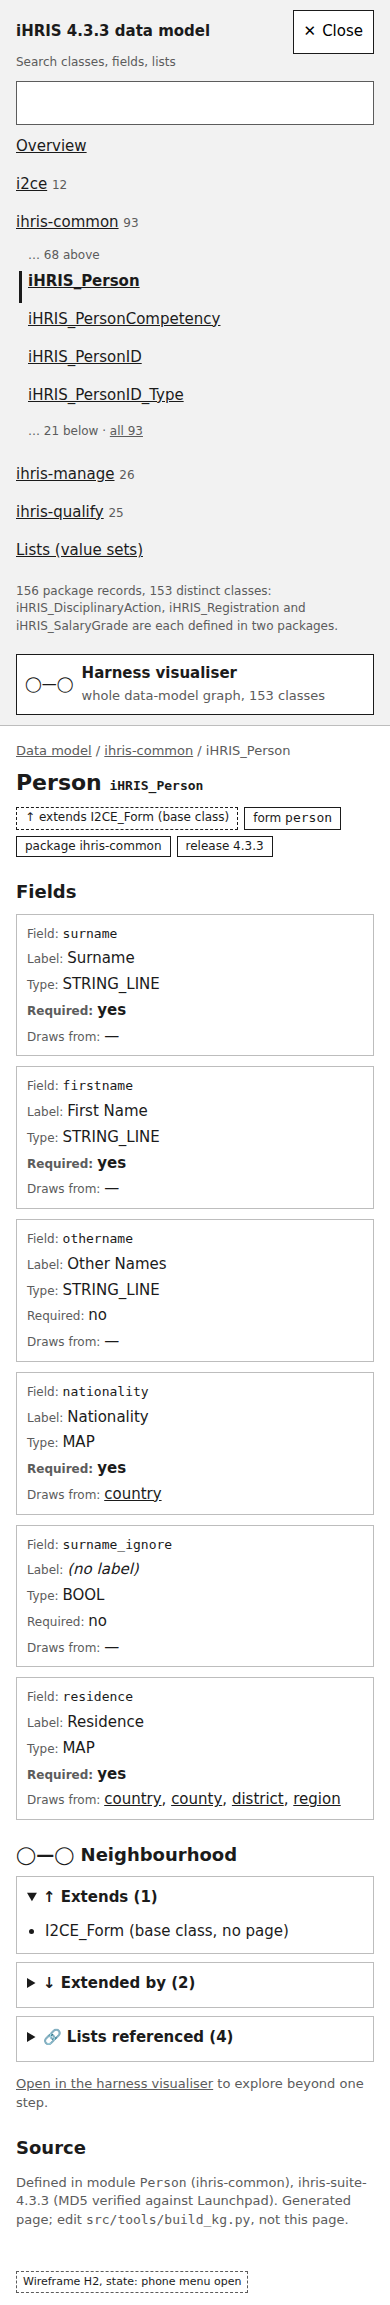
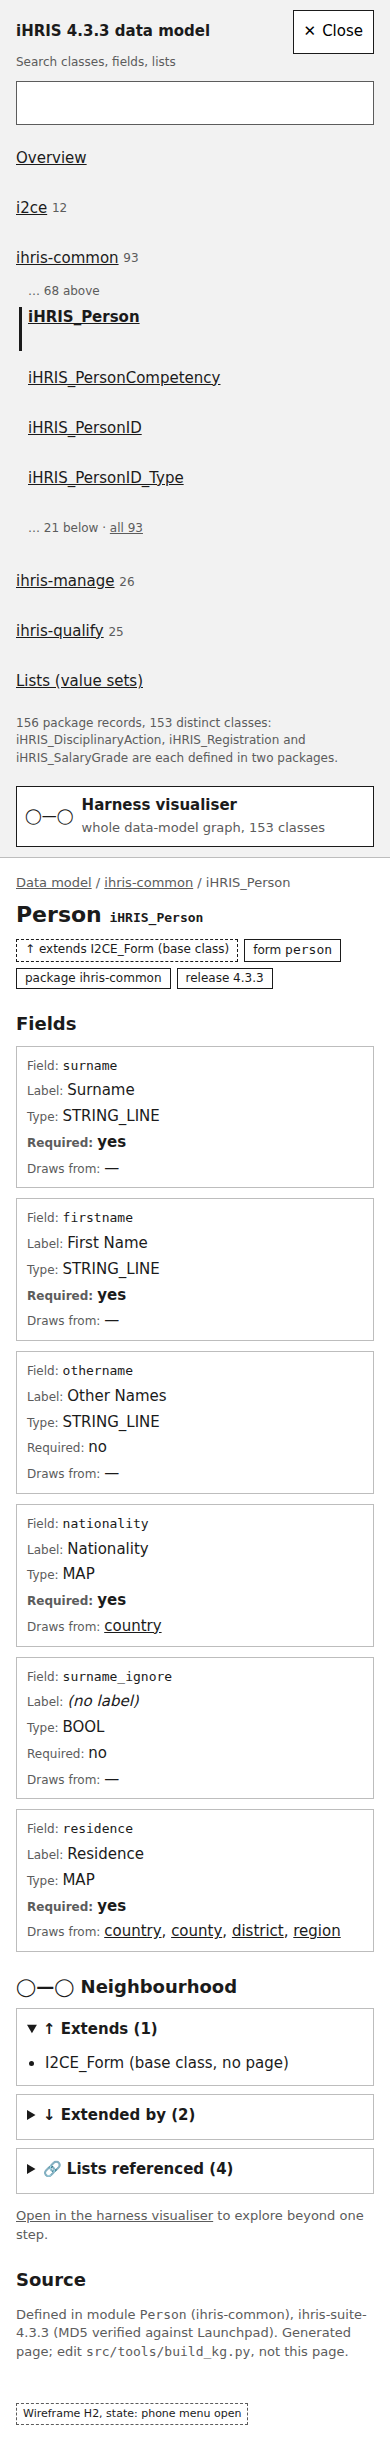
Data-model wireframes round 3: record agent-3's review; patch its two warnings
Menu touch targets are now 44px (measured), and the menu button's name is
its visible text. aria-controls also covers the visualiser tile. Checks
were re-run and pass.

Claude-Session: https://claude.ai/code/session_01TA4id51RCSxZ4NxijDwrWQ

Changed region(s): [[0.0308, 0.0, 0.9231, 0.9996], [0.7692, 0.0, 0.9538, 0.0312]]

diff --git a/docs/design/wireframes/data-model-site/round-3/h2-menu.html b/docs/design/wireframes/data-model-site/round-3/h2-menu.html
@@ -48,7 +48,7 @@
     .side { border-right:0; border-bottom:1px solid var(--line); padding:10px 16px; }
     .side .nav { display:block; margin-top:8px; }   /* state: menu open */
     .side .tile { display:flex; min-height:44px; }
-    .nav a { display:inline-block; min-height:32px; }
+    .nav a { display:inline-flex; align-items:center; min-height:44px; }
     .topbar { display:flex; align-items:center; justify-content:space-between; }
     .menu-btn { display:inline-flex; align-items:center; gap:6px; border:1px solid var(--ink); padding:6px 10px; background:var(--bg); min-height:44px; font:inherit; }
     .site { margin:0; }
@@ -76,7 +76,7 @@
   <aside class="side" aria-label="Site navigation">
     <div class="topbar">
       <div class="site">iHRIS 4.3.3 data model</div>
-      <button class="menu-btn" type="button" aria-label="Open navigation" aria-expanded="true" aria-controls="nav"><span aria-hidden="true">&#10005;</span> Close</button>
+      <button class="menu-btn" type="button" aria-expanded="true" aria-controls="nav vis-tile"><span aria-hidden="true">&#10005;</span> Close</button>
     </div>
     <form class="search" role="search" action="#">
       <label for="q">Search classes, fields, lists</label>
@@ -102,7 +102,7 @@
         <li class="note">156 package records, 153 distinct classes: iHRIS_DisciplinaryAction, iHRIS_Registration and iHRIS_SalaryGrade are each defined in two packages.</li>
       </ul>
     </nav>
-    <a class="tile" href="#"><span aria-hidden="true">&#9711;&#8212;&#9711;</span> <span><b>Harness visualiser</b><br><span class="src">whole data-model graph, 153 classes</span></span></a>
+    <a class="tile" id="vis-tile" href="#"><span aria-hidden="true">&#9711;&#8212;&#9711;</span> <span><b>Harness visualiser</b><br><span class="src">whole data-model graph, 153 classes</span></span></a>
   </aside>
 
   <main id="main" tabindex="-1">

diff --git a/docs/design/wireframes/data-model-site/round-3/h2.html b/docs/design/wireframes/data-model-site/round-3/h2.html
@@ -51,6 +51,7 @@
     .menu-btn { display:inline-flex; align-items:center; gap:6px; border:1px solid var(--ink); padding:6px 10px; background:var(--bg); min-height:44px; font:inherit; }
     .site { margin:0; }
     .search input { margin:8px 0 0; min-height:44px; }
+    .nav a { display:inline-flex; align-items:center; min-height:44px; }
     main { padding:16px; }
     h1 { font-size:22px; }
     /* fields: labelled cards (A) */
@@ -74,7 +75,7 @@
   <aside class="side" aria-label="Site navigation">
     <div class="topbar">
       <div class="site">iHRIS 4.3.3 data model</div>
-      <button class="menu-btn" type="button" aria-label="Open navigation" aria-expanded="false" aria-controls="nav"><span aria-hidden="true">&#9776;</span> Menu</button>
+      <button class="menu-btn" type="button" aria-expanded="false" aria-controls="nav vis-tile"><span aria-hidden="true">&#9776;</span> Menu</button>
     </div>
     <form class="search" role="search" action="#">
       <label for="q">Search classes, fields, lists</label>
@@ -100,7 +101,7 @@
         <li class="note">156 package records, 153 distinct classes: iHRIS_DisciplinaryAction, iHRIS_Registration and iHRIS_SalaryGrade are each defined in two packages.</li>
       </ul>
     </nav>
-    <a class="tile" href="#"><span aria-hidden="true">&#9711;&#8212;&#9711;</span> <span><b>Harness visualiser</b><br><span class="src">whole data-model graph, 153 classes</span></span></a>
+    <a class="tile" id="vis-tile" href="#"><span aria-hidden="true">&#9711;&#8212;&#9711;</span> <span><b>Harness visualiser</b><br><span class="src">whole data-model graph, 153 classes</span></span></a>
   </aside>
 
   <main id="main" tabindex="-1">

diff --git a/docs/design/wireframes/data-model-site/README.md b/docs/design/wireframes/data-model-site/README.md
@@ -28,7 +28,8 @@ Process: [`wireframe-design-review`](../../../../processes/wireframe-design-revi
 | intent | [`round-3/intent.md`](round-3/intent.md): eight fixes answering agent-2 |
 | candidate | [`round-3/h2.html`](round-3/h2.html), plus its phone-menu-open state [`round-3/h2-menu.html`](round-3/h2-menu.html) |
 | mechanical checks | `round-3/checks/report.json`: all `pass` at web and mobile, for both files |
-| blind review | `round-3/reviews/`: agent-3 (non-author, blind) |
+| blind review | [`round-3/reviews/agent-3.json`](round-3/reviews/agent-3.json) (non-author, blind). Intent-fit, web and alternatives pass; fixes 2–8 pass. Two warnings: menu touch targets under 44px, and the menu button's aria-label hid its visible text. Every fact matches the data. |
+| post-review patch | [`round-3/post-review-patch.json`](round-3/post-review-patch.json): both warnings patched and verified mechanically (the smallest touch target is 44px). The checks were re-run. |
 | acceptance | open: the owner decides |
 
 `authors.json` records who made each candidate. Reviewers should not open it.

diff --git a/beans/defs/ihris-07z5--data-model-site-wireframes-round-2-hybrid-h-review.md b/beans/defs/ihris-07z5--data-model-site-wireframes-round-2-hybrid-h-review.md
@@ -1,6 +1,6 @@
 ---
 # ihris-07z5
-title: 'Data-model site wireframes: round 2 (hybrid H) review and acceptance'
+title: 'Data-model site wireframes: rounds 2–3 (hybrid H, H2) review and acceptance'
 status: in-progress
 type: task
 tags:
@@ -12,3 +12,11 @@ parent: ihris-um1h
 ---
 
 Candidate `docs/design/wireframes/data-model-site/round-2/h.html`: A's structure plus B's neighbourhood graph, with the five fixes round 1 carried forward. Its mechanical checks pass at web and mobile. Next: the blind agent review (agent-2), then the owner either accepts H or sends it round again. After acceptance, H becomes the just-the-docs template for the data-model pages and the harness visualiser declaration.
+
+## Progress (2026-09-23)
+
+- **Round 2:** agent-2 reviewed H.
+- **Round 3:** the owner chose to fix H's warnings first.
+  - H2 and its phone-menu state answer them.
+  - agent-3 reviewed H2, and its two warnings were patched.
+- **Open:** the owner's acceptance of H2.
